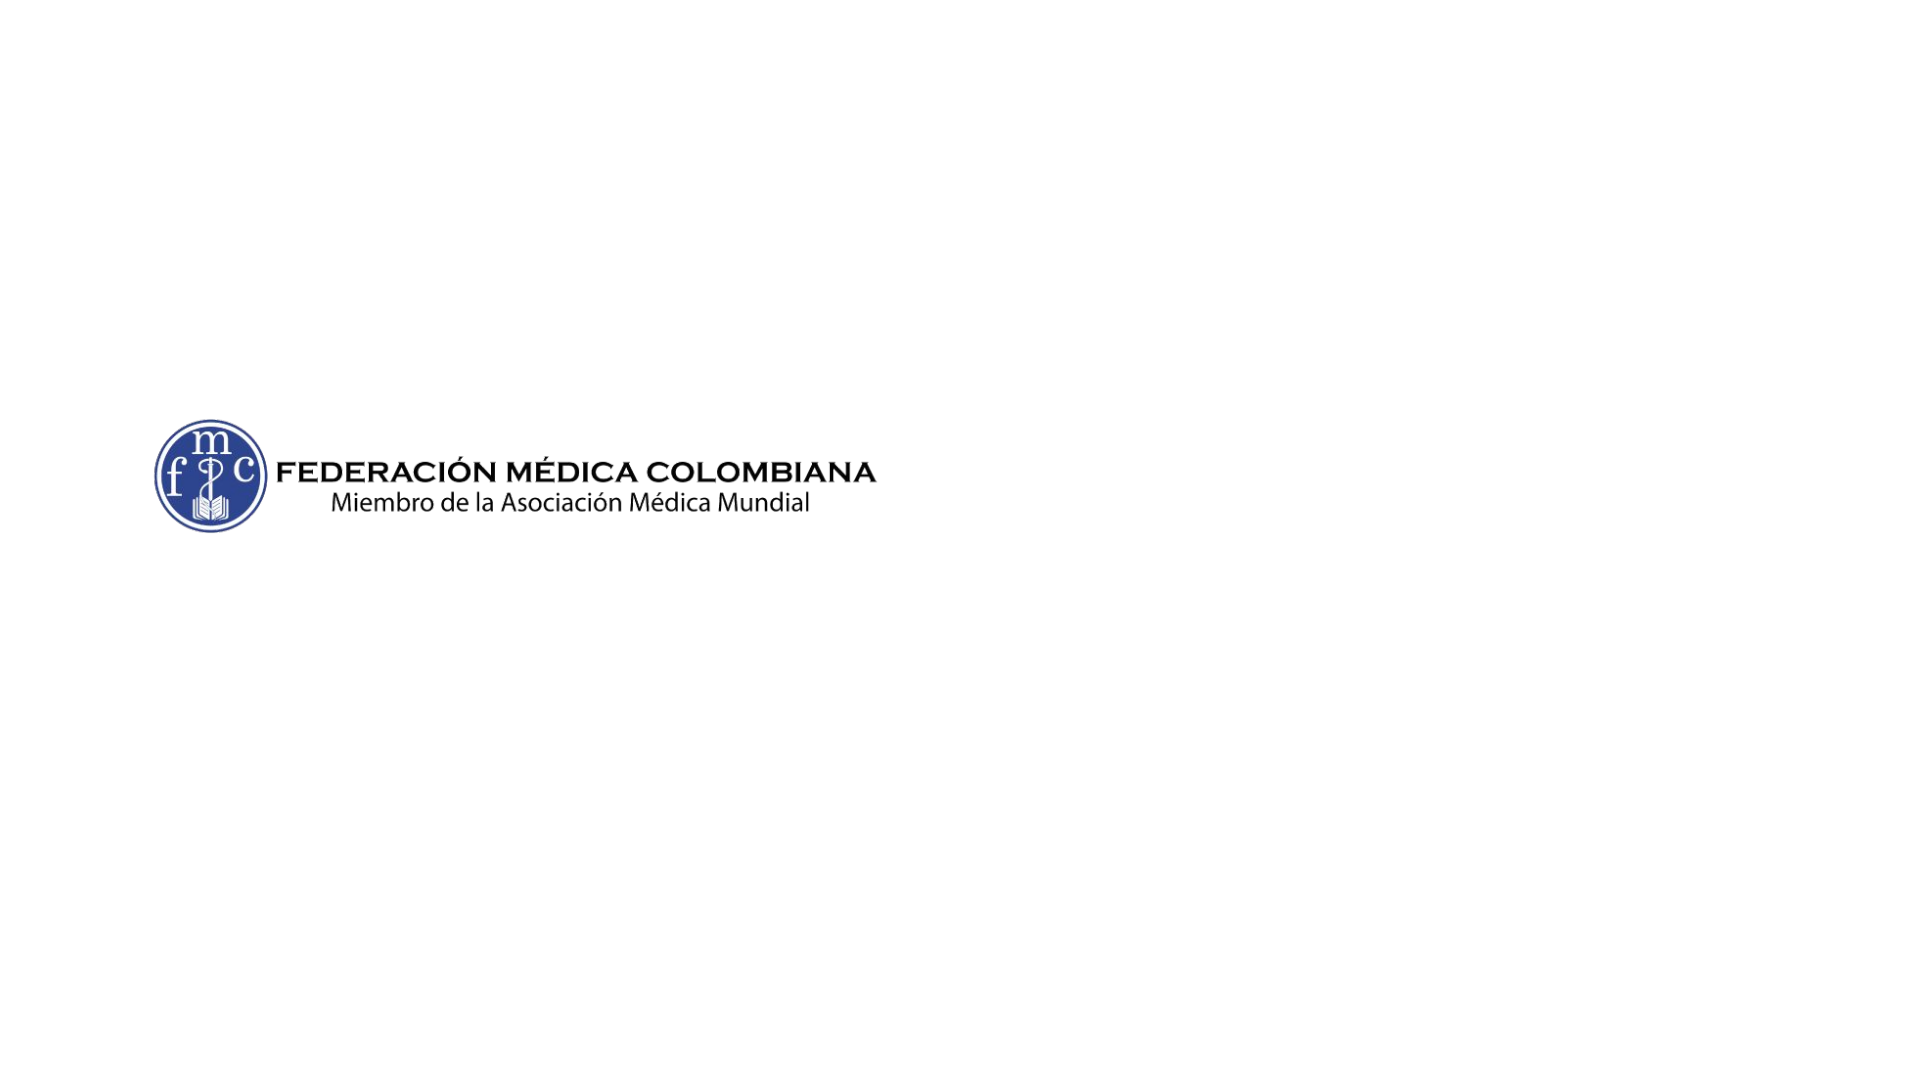
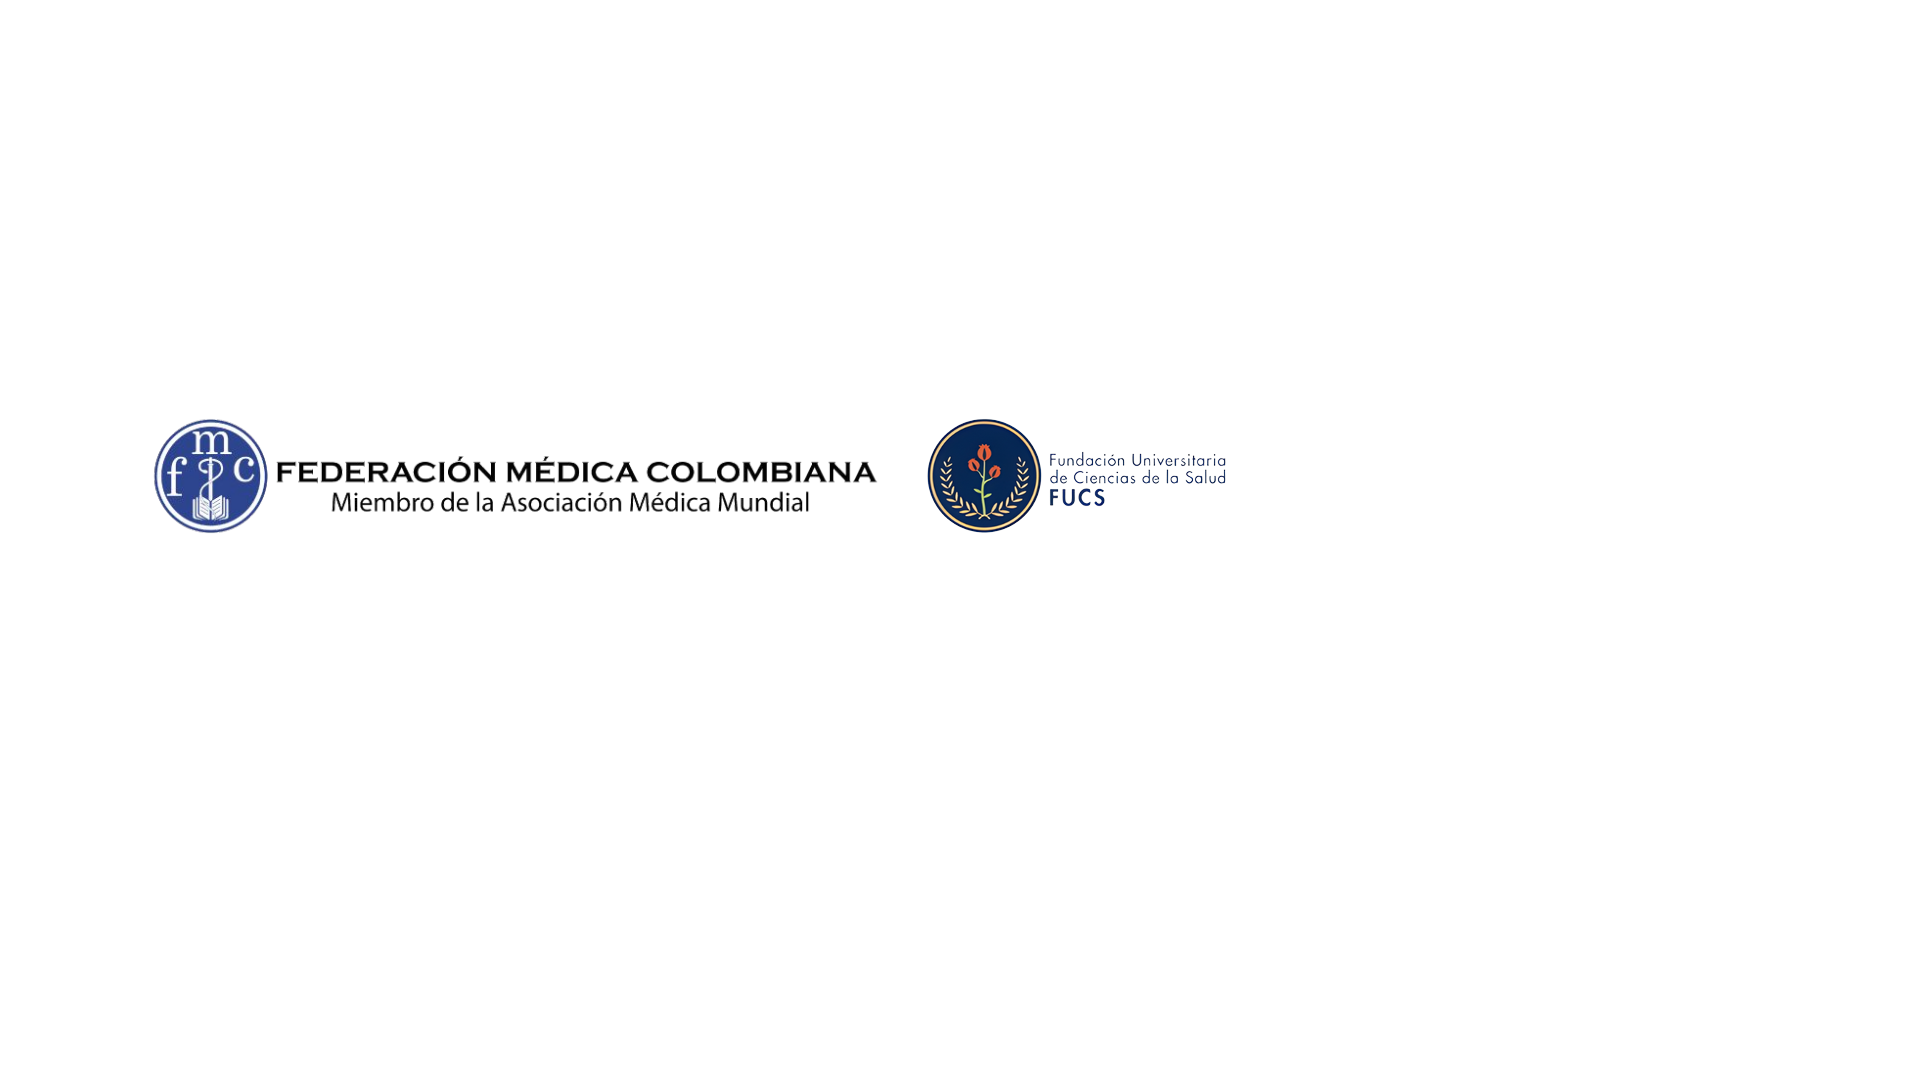
fix(presentation): ampliar lockup Federación Médica + FUCS en slide 27
El recorte de s2-a cortaba el logo de FUCS. Se actualizan PNG/JPG, el rect en anim.src y anim.json, y un cache-bust para que staging/prod no sirvan el asset viejo.

Changed region(s): [[0.4688, 0.3667, 0.625, 0.4889]]

diff --git a/src/lib/presentation/loadManifest.js b/src/lib/presentation/loadManifest.js
@@ -1,5 +1,6 @@
 const MANIFEST_URL = '/presentation/manifest.json'
-const ANIM_URL = '/presentation/anim.json'
+/** Query de cache-bust: subir este valor si cambia anim.json o capas de logos. */
+const ANIM_URL = '/presentation/anim.json?v=fucs-lockup'
 
 let cachedManifest = null
 

diff --git a/docs/presentacion-personalizada.md b/docs/presentacion-personalizada.md
@@ -68,6 +68,16 @@ En `public/presentation/manifest.json`:
 
 Tests: a → s22, b → s23, c → s24.
 
+## Slide 27 (convenios / lockup de logos)
+
+Logos **Federación Médica Colombiana** + **FUCS** en `public/presentation/Slides/27/`.
+
+- Capa animada: `anim/s2-a.png` (el recorte debe cubrir ambos logos)
+- Fuente del recorte: `presentation-raw/anim.src.json` → slide `"27"`, segundo paso (`rects`)
+- Rebuild: `node presentation-raw/build-anim.mjs 27` (genera `public/presentation/anim.json` y las PNG)
+- También actualizar `bg.png` y `full.jpg` del slide si el lockup está en la placa estática
+- Tras cambiar PNG/JSON estáticos, subir el query `?v=` en `ANIM_URL` (`src/lib/presentation/loadManifest.js`) y en el `file` de `s2-a` en `anim.json` para que el navegador no sirva el logo anterior cacheado
+
 ## Plan de vinculación (slides 31 / 32 / 33)
 
 Catálogo: `lead_presentation_budget_plan_options`.
@@ -131,6 +141,7 @@ Relacionado (cron recordatorios, no bloquea la presentación):
 10. **Generar resultado** sin plan seleccionado → propuesta con pago vacío
 11. Generar con observaciones (≤ 220 caracteres) y abrir `/propuesta/{version}/{cardId}`
 12. Generar con contado vs otras opciones y verificar overlays + observaciones
+13. Slide 27: lockup Federación Médica + FUCS visible (ambos logos, recorte completo)
 
 ## Notas
 
